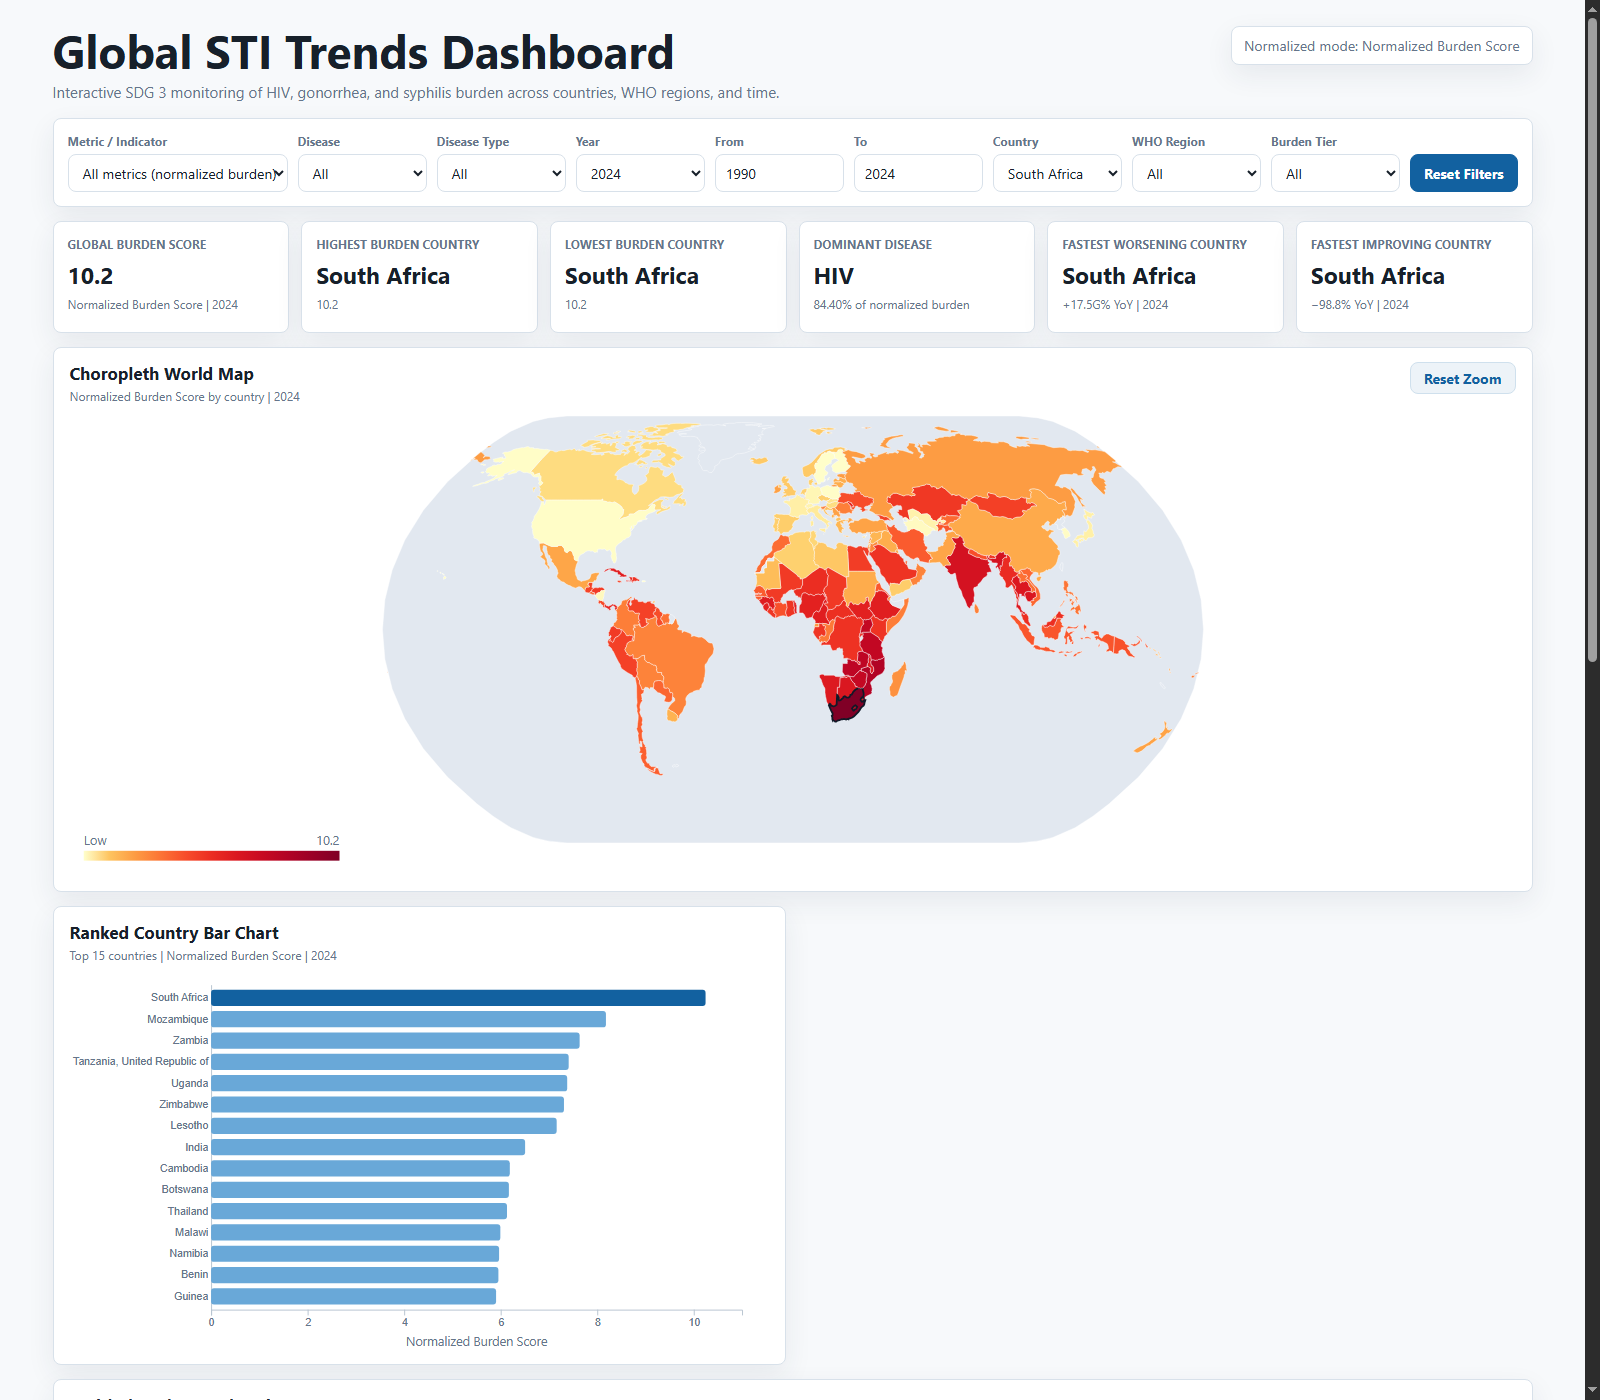
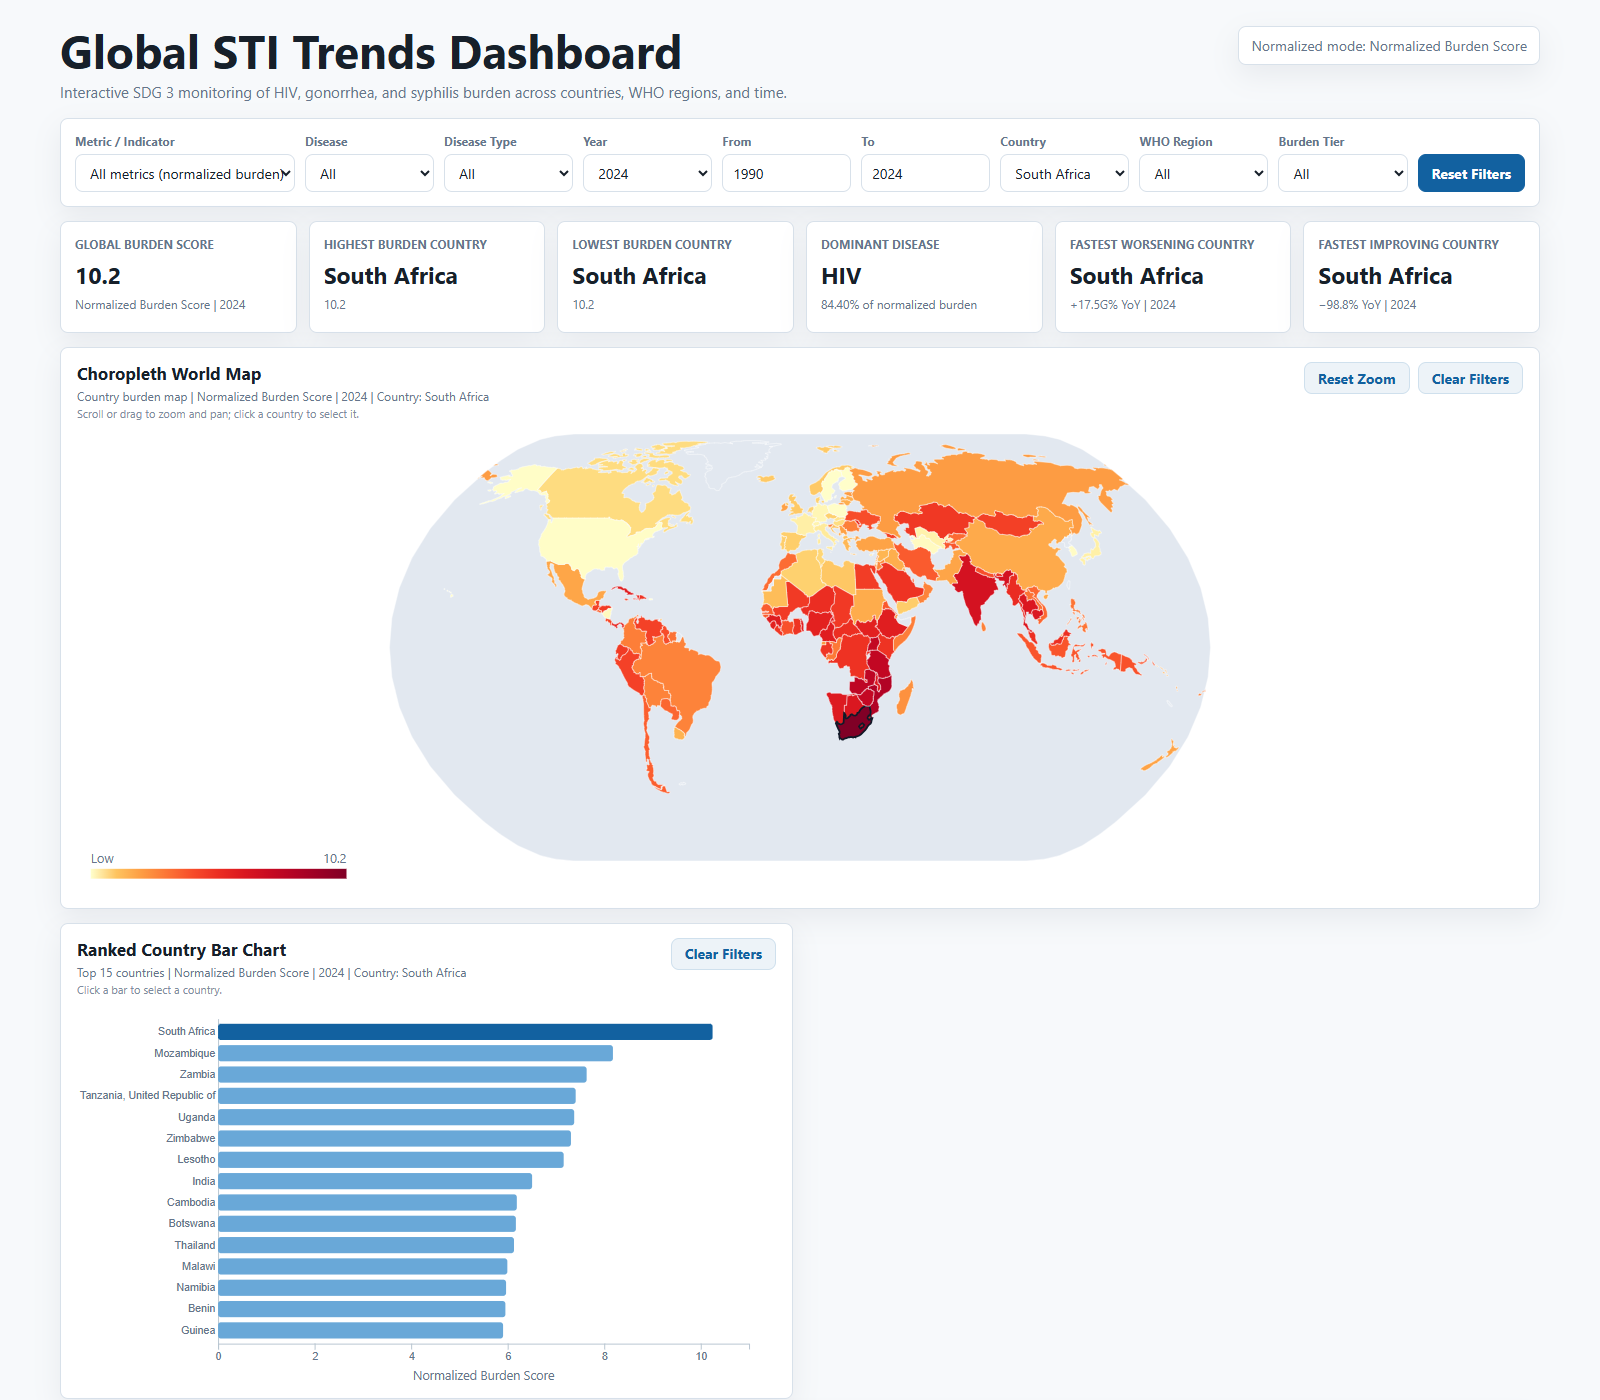
updated README

diff --git a/README.md b/README.md
@@ -1,4 +1,4 @@
-# Global STI Trends Dashboard
+# Global STI Trends Dashboard
 
 Interactive single-page D3 dashboard for monitoring HIV, gonorrhea, and syphilis burden worldwide under **SDG 3: Good Health & Well-being**.
 
@@ -287,24 +287,56 @@ The raw CSV should stay in `data/raw/` and is ignored from Git. Use the processe
 ## Dashboard Features
 
 - Global filters for metric, disease, disease type, year, year range, country, WHO region, and burden tier
+- Global reset button plus chart-level `Clear Filters` buttons for faster demo recovery
 - KPI cards for global burden score, highest burden country, lowest burden country, dominant disease, fastest worsening country, and fastest improving country
 - Shared dashboard state across all filters and charts
-- Reusable tooltip component across visualizations
-- Linked country selection across map, bar chart, bubble chart, time series, lollipop chart, and KPIs
-- Donut segment click to filter by disease
-- Choropleth map zoom and pan
-- Time-series brush for year-range focus
-- Animated bubble chart with play, pause, and year slider
+- Reusable custom tooltip component across all visualizations
+- Short interaction hints on every chart to support grading and live demonstration
+- Linked country selection across map, ranked bar chart, animated bubble chart, lollipop chart, time-series context, and KPI cards
+- Donut segment click to filter by disease globally
+- Choropleth map zoom and pan with a `Reset Zoom` control
+- Time-series brush for year-range focus with a `Reset Range` control
+- Animated bubble chart with play, pause, year slider, color legend, and bubble-size legend
+- Empty-state messages when a filter combination has no chart-ready data
 - Responsive CSS grid layout for laptop and smaller screens
 
 ## Visualizations
 
-1. Choropleth World Map
-2. Ranked Country Bar Chart
-3. Multi-Line Time-Series Chart
-4. Animated Bubble Chart
-5. Year-over-Year Lollipop Chart
-6. Disease Share Donut Chart
+1. Choropleth World Map: spatial burden comparison by country with zoom, pan, country tooltip, country selection, reset zoom, and chart-level filter clearing.
+2. Ranked Country Bar Chart: top 15 countries for the selected metric or normalized burden score with custom tooltip and click-to-select country interaction.
+3. Multi-Line Time-Series Chart: 1990-2024 trend view grouped by disease or WHO region with custom point tooltips, brush-based year focusing, reset range, and external legend placement.
+4. Animated Bubble Chart: temporal country-level animation with play/pause, year slider, color legend, bubble-size legend, custom tooltip, and click-to-select country interaction.
+5. Year-over-Year Lollipop Chart: fastest worsening and fastest improving countries using `yoy_change_pct`, including zero baseline, custom tooltip, and click-to-select country interaction.
+6. Disease Share Donut Chart: relative disease contribution using normalized burden score with custom tooltip and click-to-filter disease interaction.
+
+## Screenshots and Report Assets
+
+Dashboard screenshots are stored in `docs/screenshots/` for report writing and presentation preparation:
+
+- `full-dashboard.png`
+- `full-dashboard-tall.png`
+- `filters-kpis.png`
+- `choropleth-map.png`
+- `ranked-bar-chart.png`
+- `time-series-chart.png`
+- `animated-bubble-chart.png`
+- `lollipop-chart.png`
+- `donut-chart.png`
+- `linked-interaction-south-africa.png`
+
+The current report draft is stored in:
+
+```text
+report/1221305612_1221305898_1221305145.docx
+```
+
+The local ChatGPT report handoff prompt is stored in:
+
+```text
+docs/HANDOFF_TO_CHATGPT.md
+```
+
+Note: `docs/HANDOFF_TO_CHATGPT.md` is a local writing helper and is ignored from Git unless the team decides to include it.
 
 ## Normalized Burden Score
 
